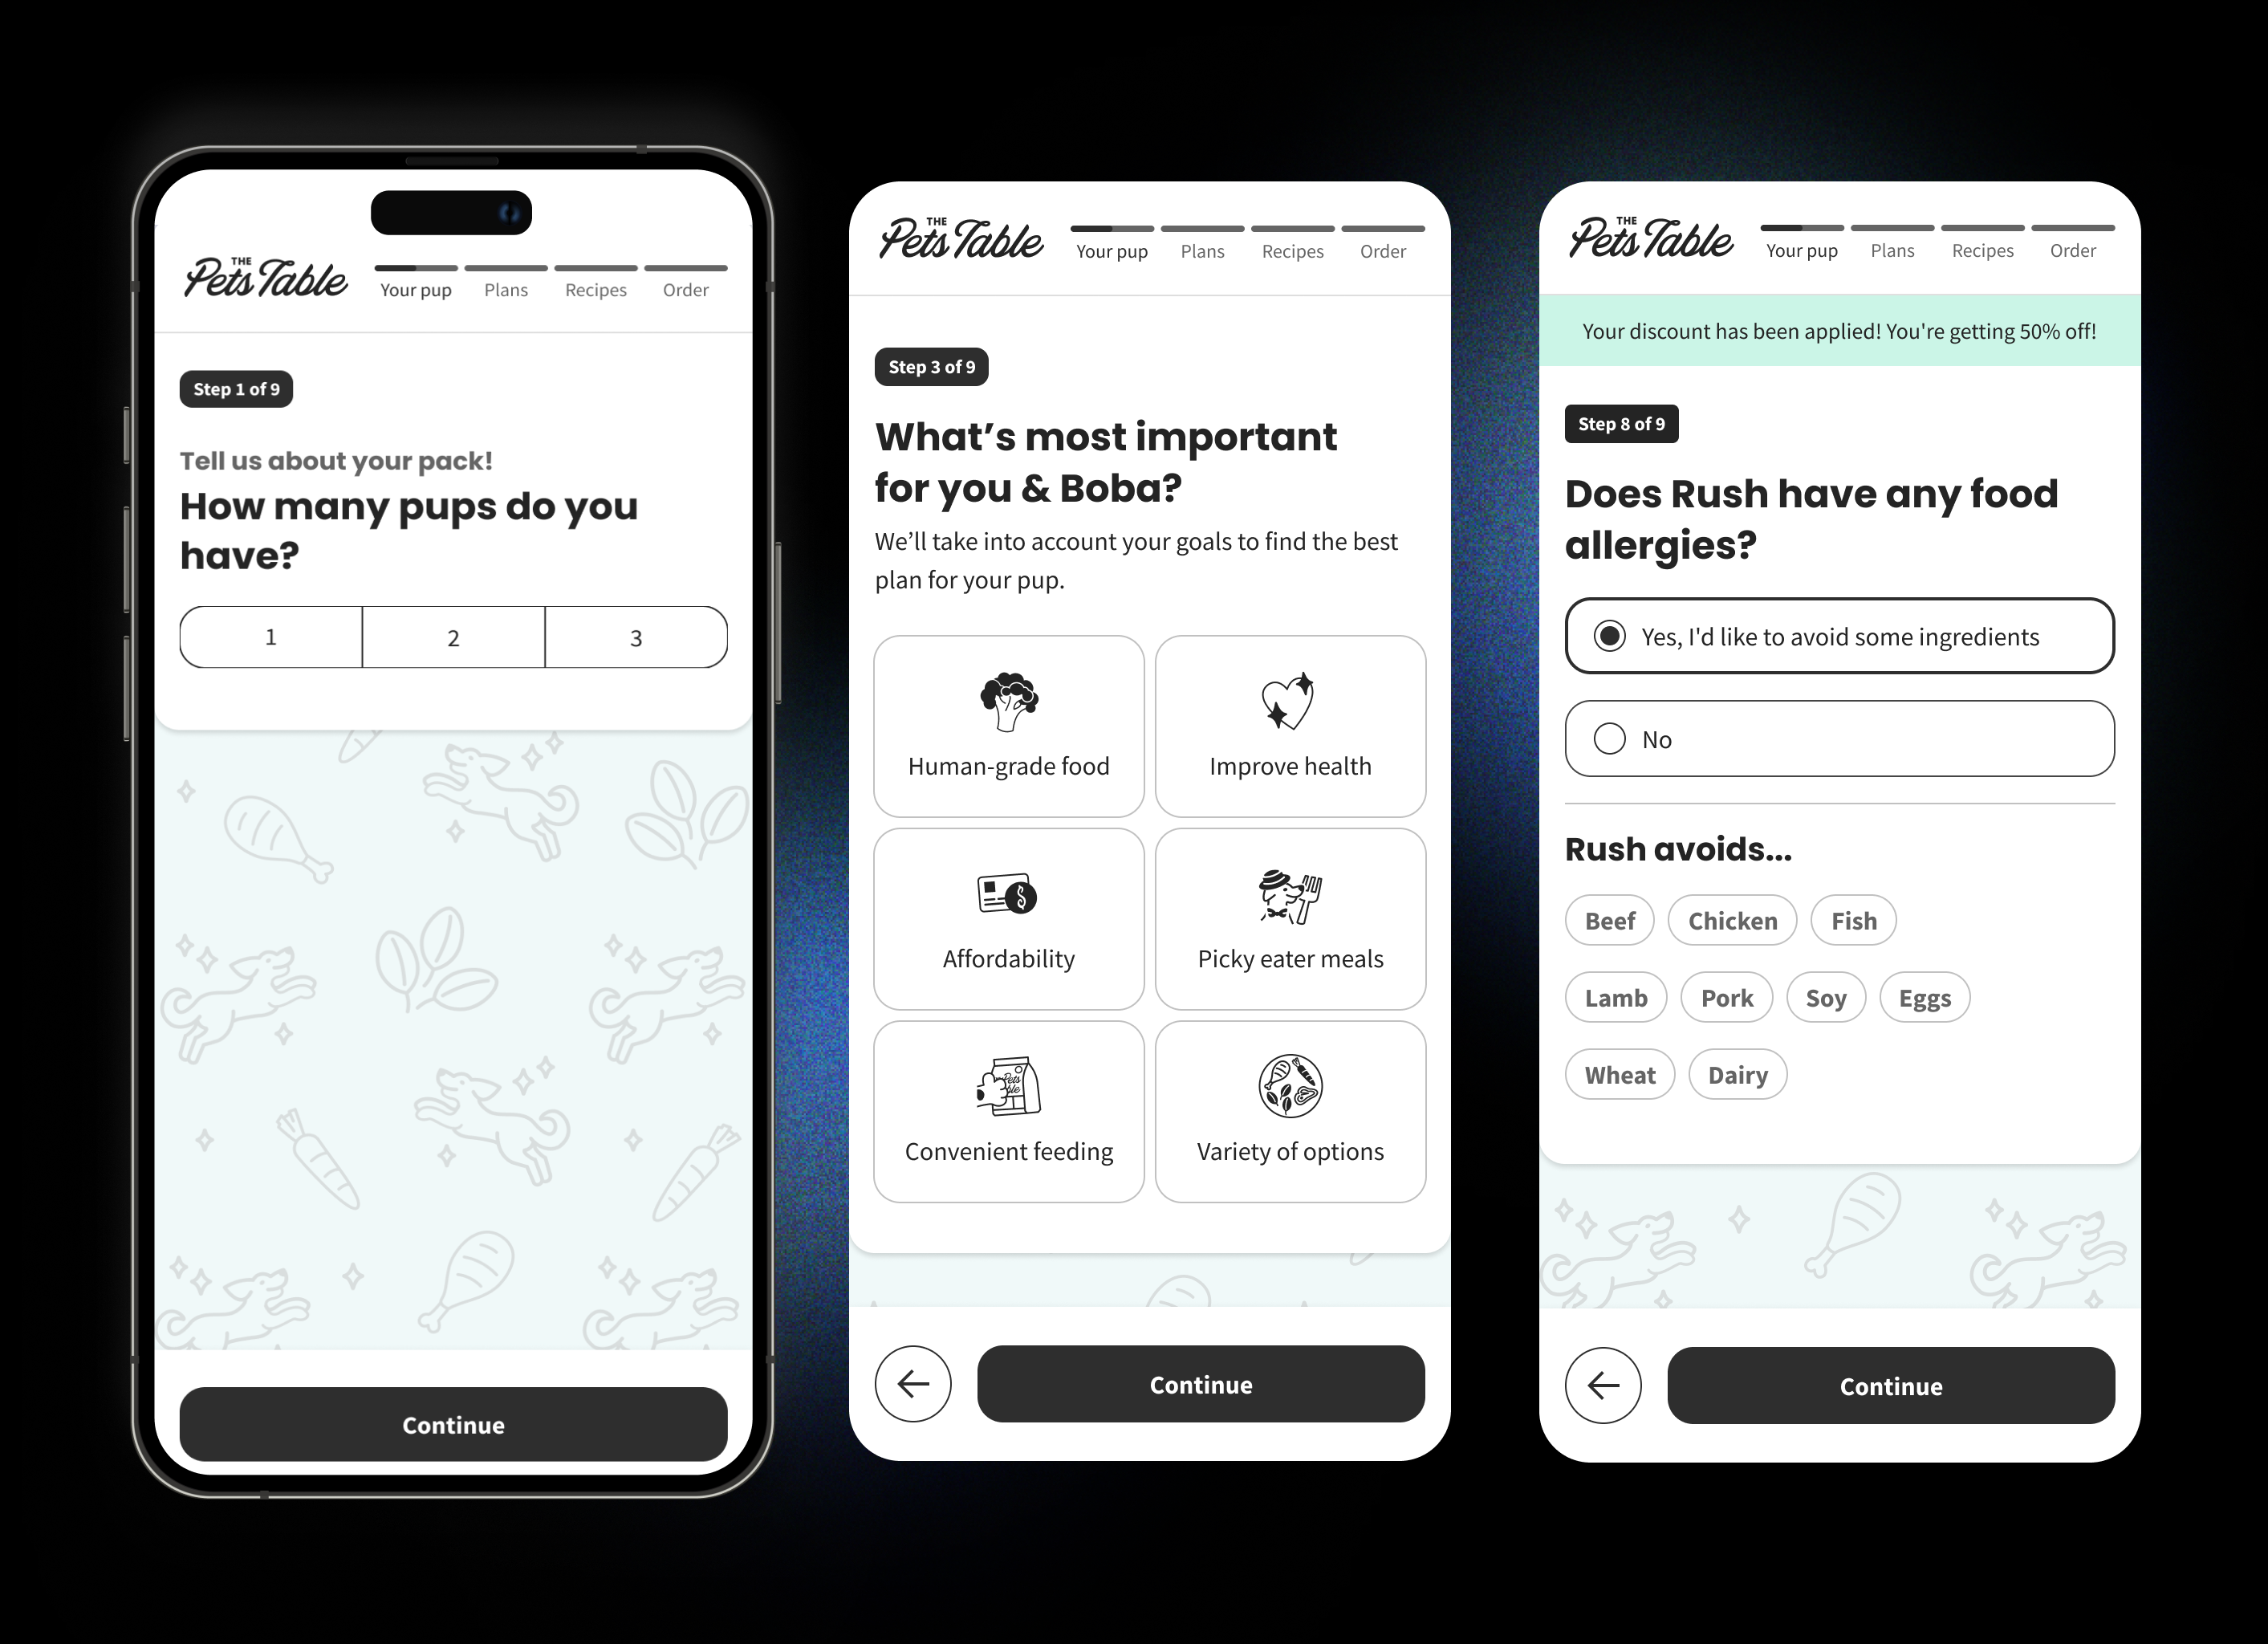
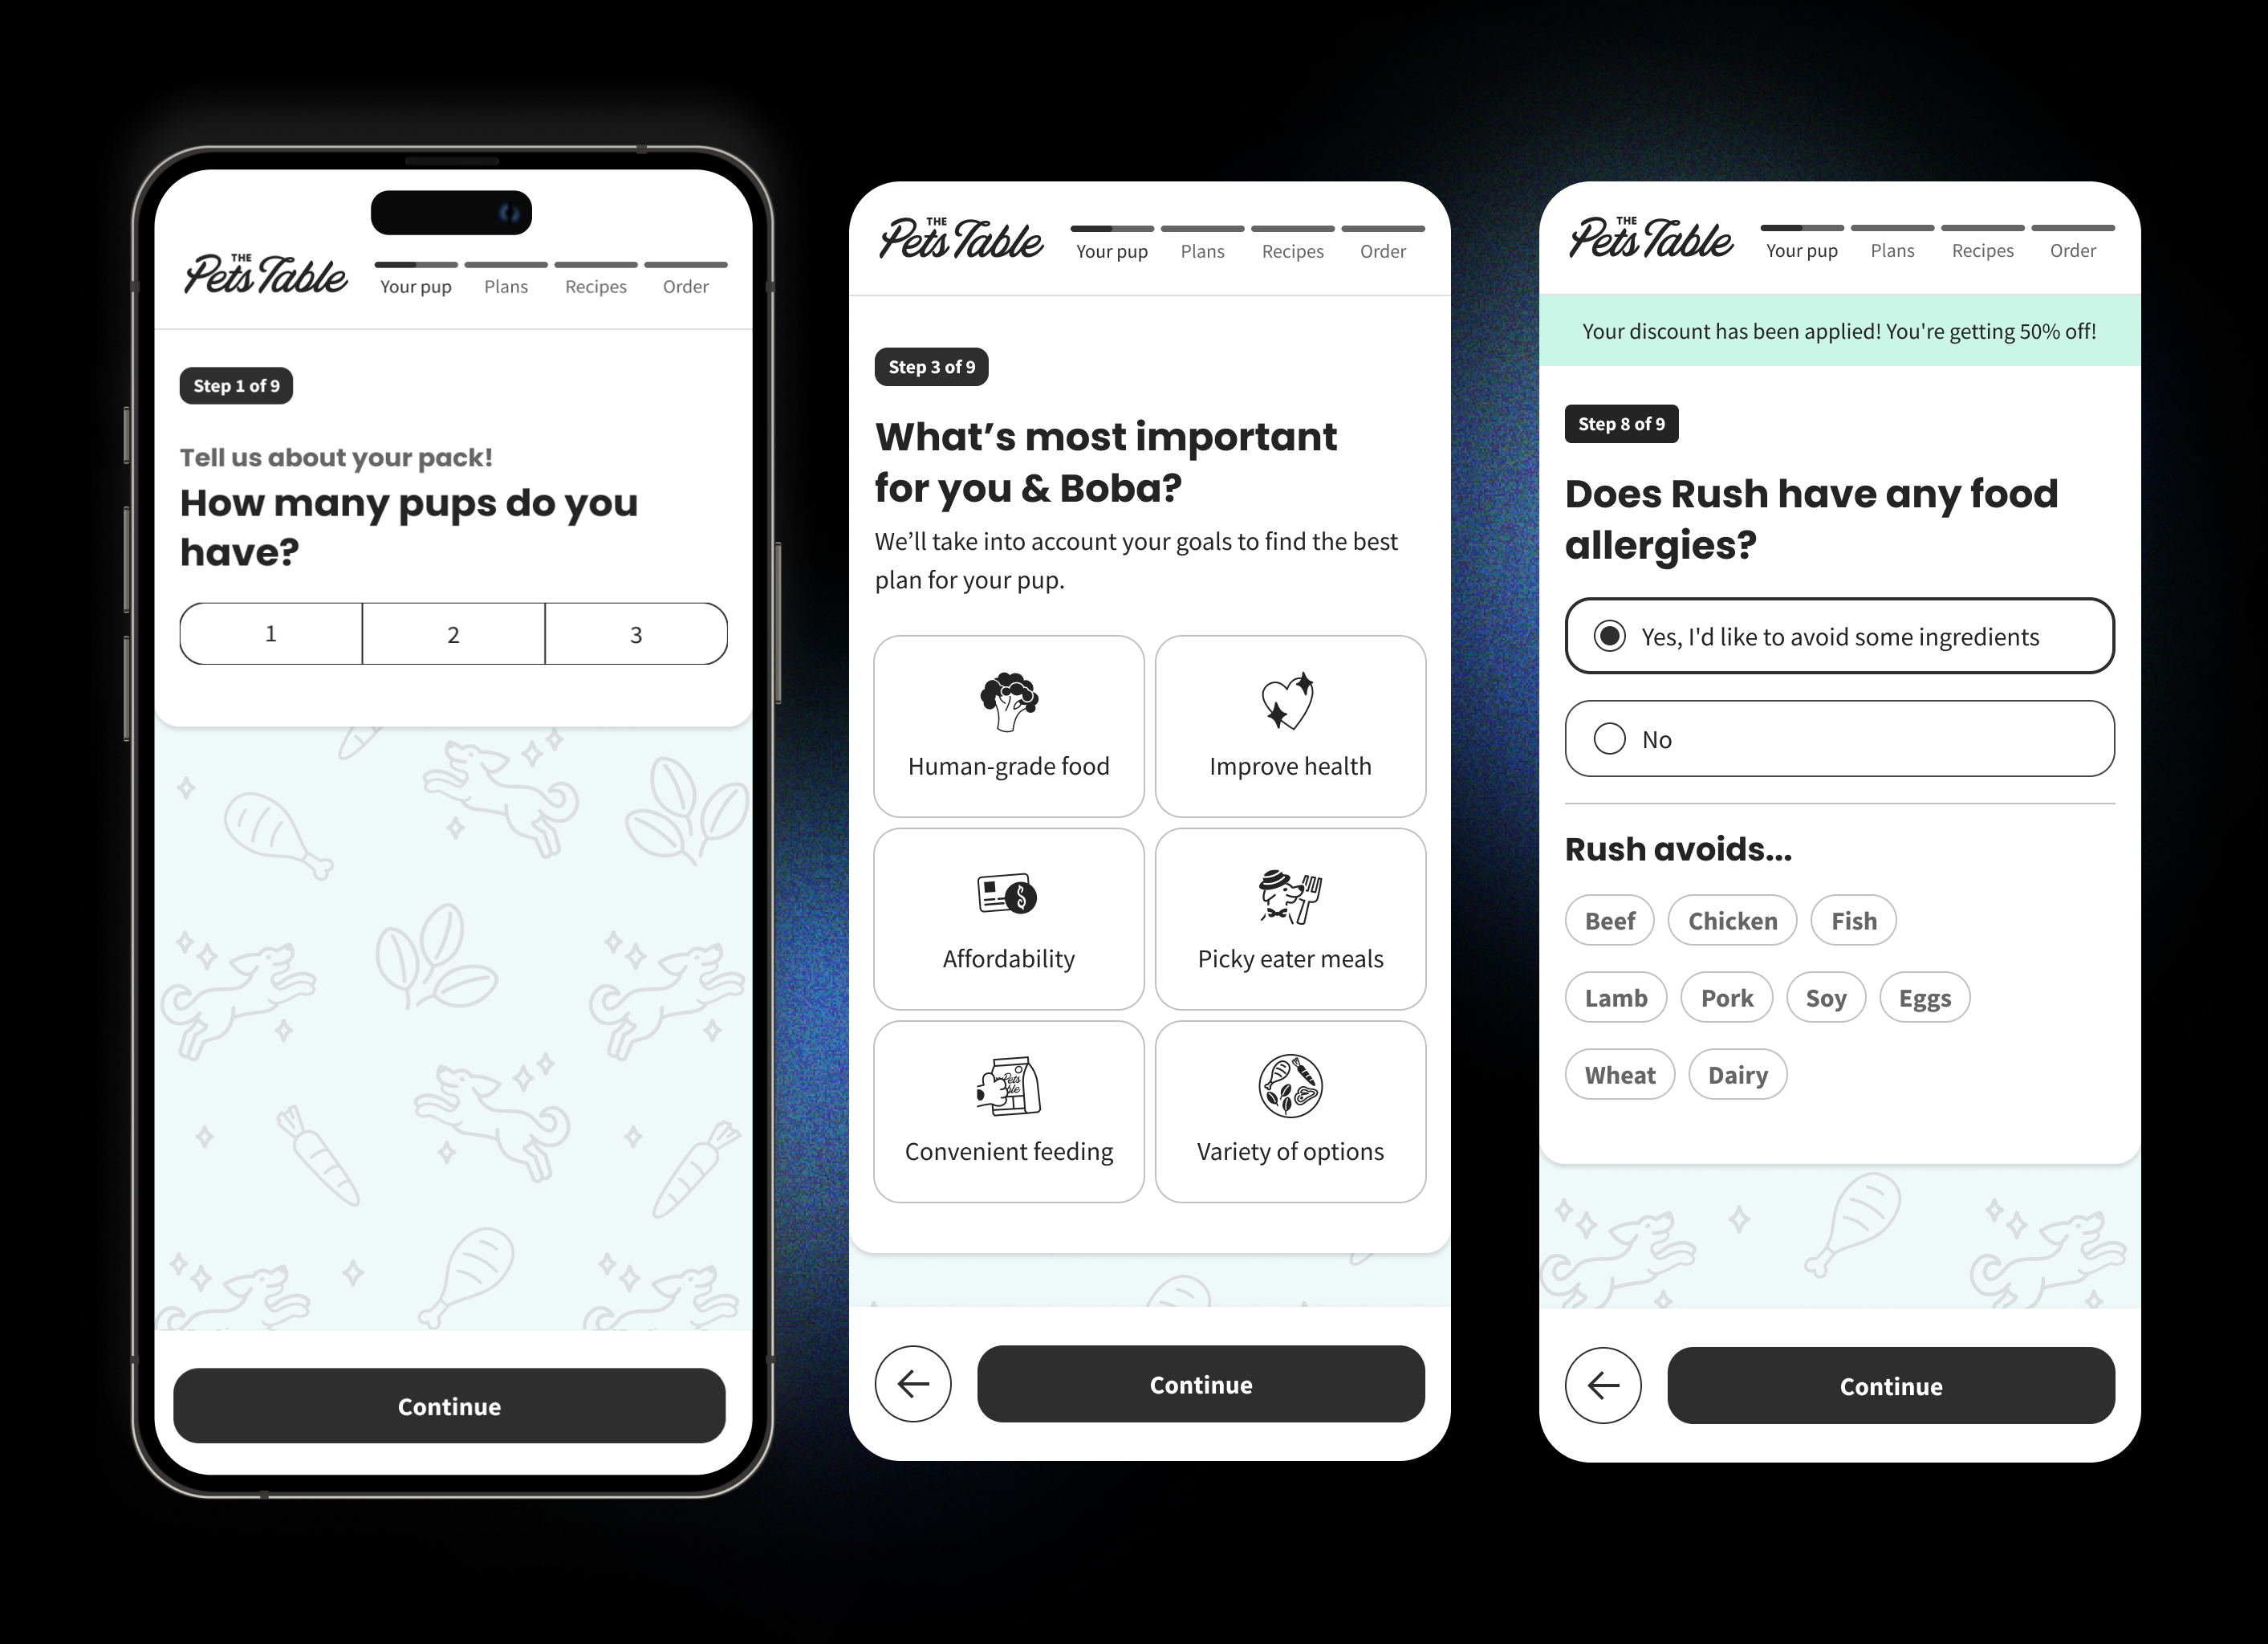
Expand Pets Table case study with new images, research section, and design-to-code narrative

diff --git a/src/data/richCaseStudies.ts b/src/data/richCaseStudies.ts
@@ -14,7 +14,7 @@ export const richCaseStudies: RichCaseStudy[] = [
             {
                 type: 'impact',
                 items: [
-                    { value: '1st', label: 'Designer in production code', description: 'First designer at HelloFresh to merge code directly — setting a precedent that spread company-wide.' },
+                    { value: '1st', label: 'Designer in production code', description: 'First designer at HelloFresh to merge code directly into production — setting a precedent that grew into an organisation-wide movement under the Consumer Acceleration team.' },
                     { value: '8', label: 'UX commands shipped', description: 'A full specx-ux suite covering prototype creation, iteration, testing, publishing, and design-to-code.' },
                     { value: '9', label: 'HelloFresh Brands affected', description: 'The new design-to-code workflow changed how features are built across all nine HelloFresh brands — giving each one faster, higher-fidelity output and less engineering overhead.', logos: [
                         { src: '/brands/hellofresh-full.svg', alt: 'HelloFresh', height: 22 },
@@ -40,7 +40,7 @@ export const richCaseStudies: RichCaseStudy[] = [
             },
             {
                 type: 'callout',
-                content: 'I became the first designer at HelloFresh to merge code directly into production — setting a precedent that spread across the wider team.',
+                content: 'I became the first designer at HelloFresh to merge code directly into production — setting a precedent that eventually grew into an organisation-wide movement under the Consumer Acceleration team.',
             },
             {
                 type: 'image',
@@ -281,6 +281,11 @@ export const richCaseStudies: RichCaseStudy[] = [
                 content: 'Over three years I shaped TPT\'s end-to-end product experience — from the acquisition funnel through to delivery management, pet profile, and member retention. I ran user research, built design systems foundations, drove measurable conversion improvements, and eventually pioneered AI-assisted design-to-code workflows that set a new bar across HelloFresh.',
             },
             {
+                type: 'image',
+                src: '/tpt-plans.png',
+                caption: 'The main plans page we kept iterating on since when the brand was launched.',
+            },
+            {
                 type: 'divider',
                 label: '2023 · Launch & Foundations',
             },
@@ -308,7 +313,7 @@ export const richCaseStudies: RichCaseStudy[] = [
                     },
                     {
                         title: 'Zest-Compliant UI',
-                        description: 'Zest is HelloFresh\'s multi-brand design system. Because TPT and Zest were born at the same time, we became the first HelloFresh brand to reach full compliance — something only possible with a brand built from scratch.',
+                        description: 'Zest (HelloFresh\'s newest design system) is their multi-brand system. Because TPT and Zest were born at the same time, we became the first HelloFresh brand to reach full compliance — something only possible with a brand built from scratch.',
                     },
                     {
                         title: 'Object-Oriented UX',
@@ -331,11 +336,17 @@ export const richCaseStudies: RichCaseStudy[] = [
             },
             {
                 type: 'text',
-                content: 'With foundations in place, 2024 was about depth — running proper research programs, validating new features before build, and shipping a steady stream of measurable improvements across the funnel.',
+                content: 'With foundations in place, 2024 was about depth — running proper research programs, validating new features before build, and shipping a steady stream of measurable improvements across the funnel. We ran numerous A/B tests throughout, which gave us the data to decide which features were worth keeping and which ones to drop.',
+            },
+            {
+                type: 'image',
+                src: '/tpt-two-step-loading.png',
+                caption: 'Two-step loading: a feature to prepare users before seeing the plans page.',
             },
             {
                 type: 'text',
-                content: 'I designed and validated a new delivery scheduling feature through DIY usability testing, expanded it into variable cadences, and built a subscribable add-ons store. I also scaled continuous feedback systems using Sprig and Usabilla — creating the first real infrastructure for ongoing user insight at TPT.',
+                html: true,
+                content: 'New features were validated through user research and usability testing before a single line was built. We also scaled ongoing insight with <a href="https://sprig.com/" target="_blank" rel="noopener noreferrer" class="underline text-white/70 hover:text-white transition-colors">Sprig</a> — leveraging screen recordings, heatmaps, and surveys to understand real behaviour across the funnel and feed the next round of improvements.',
             },
             {
                 type: 'impact',
@@ -343,41 +354,40 @@ export const richCaseStudies: RichCaseStudy[] = [
                 items: [
                     { value: '+3.4%', label: 'CVR — Goals question', description: 'Added a goals question to the quiz and redesigned the plans page as part of Funnel 2.0.' },
                     { value: '+3.3%', label: 'CVR — Social proof', description: 'Introduced social proof on the delivery page in the acquisition funnel.' },
-                    { value: '+20%', label: 'mCVR — Free items', description: 'Added free items to the order summary — we weren\'t showing them before. Pattern later adopted by Good Chop.' },
                     { value: '+1.2%', label: 'CVR — Two-step loading', description: 'A subtle UX pattern change on the checkout loading state that reduced drop-off.' },
+                    { value: '+20%', label: 'mCVR — Free items', description: 'Added free items to the order summary — we weren\'t showing them before. Pattern later adopted by Good Chop.' },
                 ],
             },
             {
-                type: 'text',
-                content: 'I also introduced an improved Figma handoff structure during this period — a more systematic approach to organising files for engineering collaboration that was later adopted by other teams across HelloFresh.',
+                type: 'image',
+                src: '/tpt-free-items.png',
+                caption: 'A low-hanging fruit: displaying free items in the order summary resulted in a very high increase in micro-conversion from this page to the payment page.',
             },
             {
                 type: 'divider',
                 label: 'Pioneering Design-to-Code',
             },
             {
-                type: 'text',
-                content: 'Toward the end of my time at TPT, I began using Claude Code to implement design system components directly in the production codebase. The breed-specific message feature — 11 personalised copy variants for the most-selected dog breeds, conditional logic, real social proof data — was one of the first features I shipped end-to-end without an engineering handoff.',
+                type: 'callout',
+                content: 'I became the first designer at HelloFresh to merge code directly into production — setting a precedent that eventually grew into an organisation-wide movement under the Consumer Acceleration team.',
             },
             {
-                type: 'callout',
-                content: 'I became the first designer at HelloFresh to merge code directly into production — setting a precedent that eventually grew into a team-wide movement under Consumer Acceleration.',
+                type: 'text',
+                content: 'Toward the end of my time at TPT, I began implementing features directly in the production codebase. It started with AI agents in Cursor, and as the company grew in AI maturity it evolved into a more structured workflow — using Claude Code alongside Spec-Machine, a shared repository of skills built for our stack.',
+            },
+            {
+                type: 'text',
+                content: 'The breed-specific message feature — 11 personalised copy variants for the most-selected dog breeds, conditional logic, real social proof data — was one of the first I shipped end-to-end without an engineering handoff.',
+            },
+            {
+                type: 'image',
+                src: '/petstable-breed.png',
+                caption: 'The breed-specific message feature',
+                shrink: true,
             },
             {
                 type: 'text',
                 content: 'This wasn\'t about replacing engineers. It was about removing the gap between design intent and what ships — taking ownership of the full quality of what I designed, all the way to the user.',
-            },
-            {
-                type: 'divider',
-                label: 'Beyond The Pets Table',
-            },
-            {
-                type: 'text',
-                content: 'Some of the most lasting impact from three years at TPT wasn\'t on TPT itself. The Free Items redesign was adopted by Good Chop. The cancellation UX spread across brands. The Figma handoff structure was picked up cross-team. Research programs and Sprig scaling influenced multiple teams. And the AI design-to-code experiments seeded what became a company-wide movement.',
-            },
-            {
-                type: 'text',
-                content: 'I also contributed to Factor\'s B2B UX during this period — bringing TPT learnings and cross-brand pattern thinking to a very different product context.',
             },
             {
                 type: 'divider',
@@ -389,7 +399,21 @@ export const richCaseStudies: RichCaseStudy[] = [
             },
             {
                 type: 'text',
-                content: 'What I\'m most proud of isn\'t any single metric. It\'s the discipline of working at pace without cutting corners — shipping fast but maintaining quality, running real research under real constraints, and treating every negotiation for engineering time as a design decision in itself. TPT taught me how to operate with ambiguity, advocate for users with data, and build things that outlast the sprint they ship in.',
+                content: 'What I\'m most proud of isn\'t any single metric. It\'s the discipline of working at pace without cutting corners — shipping fast but maintaining quality, running real research under real constraints, and treating every negotiation for engineering time as a design decision in itself. TPT taught me how to operate with ambiguity, advocate for users with data, and keep iterating based on what the numbers tell you rather than what you assumed at the start.',
+            },
+            {
+                type: 'image',
+                src: '/tpt-meals.png',
+                caption: 'The meal selection page.',
+            },
+            {
+                type: 'text',
+                content: 'Iterations are ongoing. The latest ones focus on helping customers choose their recipes with more confidence — the recipe detail page is now more interactive and informative, featuring key ingredients and customer reviews.',
+            },
+            {
+                type: 'image',
+                src: '/tpt-recipe-detail.png',
+                caption: 'The new recipe detail page.',
             },
         ],
     },

diff --git a/src/components/CaseStudyPage.tsx b/src/components/CaseStudyPage.tsx
@@ -82,7 +82,9 @@ export function CaseStudyPage({ study, onBack, otherStudies = [], onOpenStudy }:
             {study.sections.map((section, i) => {
                 switch (section.type) {
                     case 'text':
-                        return (
+                        return section.html ? (
+                            <p key={i} className="mt-8 text-[16px] md:text-[17px] font-normal leading-relaxed text-white/60" dangerouslySetInnerHTML={{ __html: section.content }} />
+                        ) : (
                             <p key={i} className="mt-8 text-[16px] md:text-[17px] font-normal leading-relaxed text-white/60">
                                 {section.content}
                             </p>

diff --git a/src/data/templateCaseStudy.ts b/src/data/templateCaseStudy.ts
@@ -1,5 +1,5 @@
 export type RichSection =
-    | { type: 'text'; content: string }
+    | { type: 'text'; content: string; html?: boolean }
     | { type: 'callout'; content: string }
     | { type: 'image'; src: string; caption?: string; width?: string }
     | { type: 'impact'; title?: string; items: { value: string; label: string; description: string; logos?: { src: string; alt: string; height: number }[] }[] }